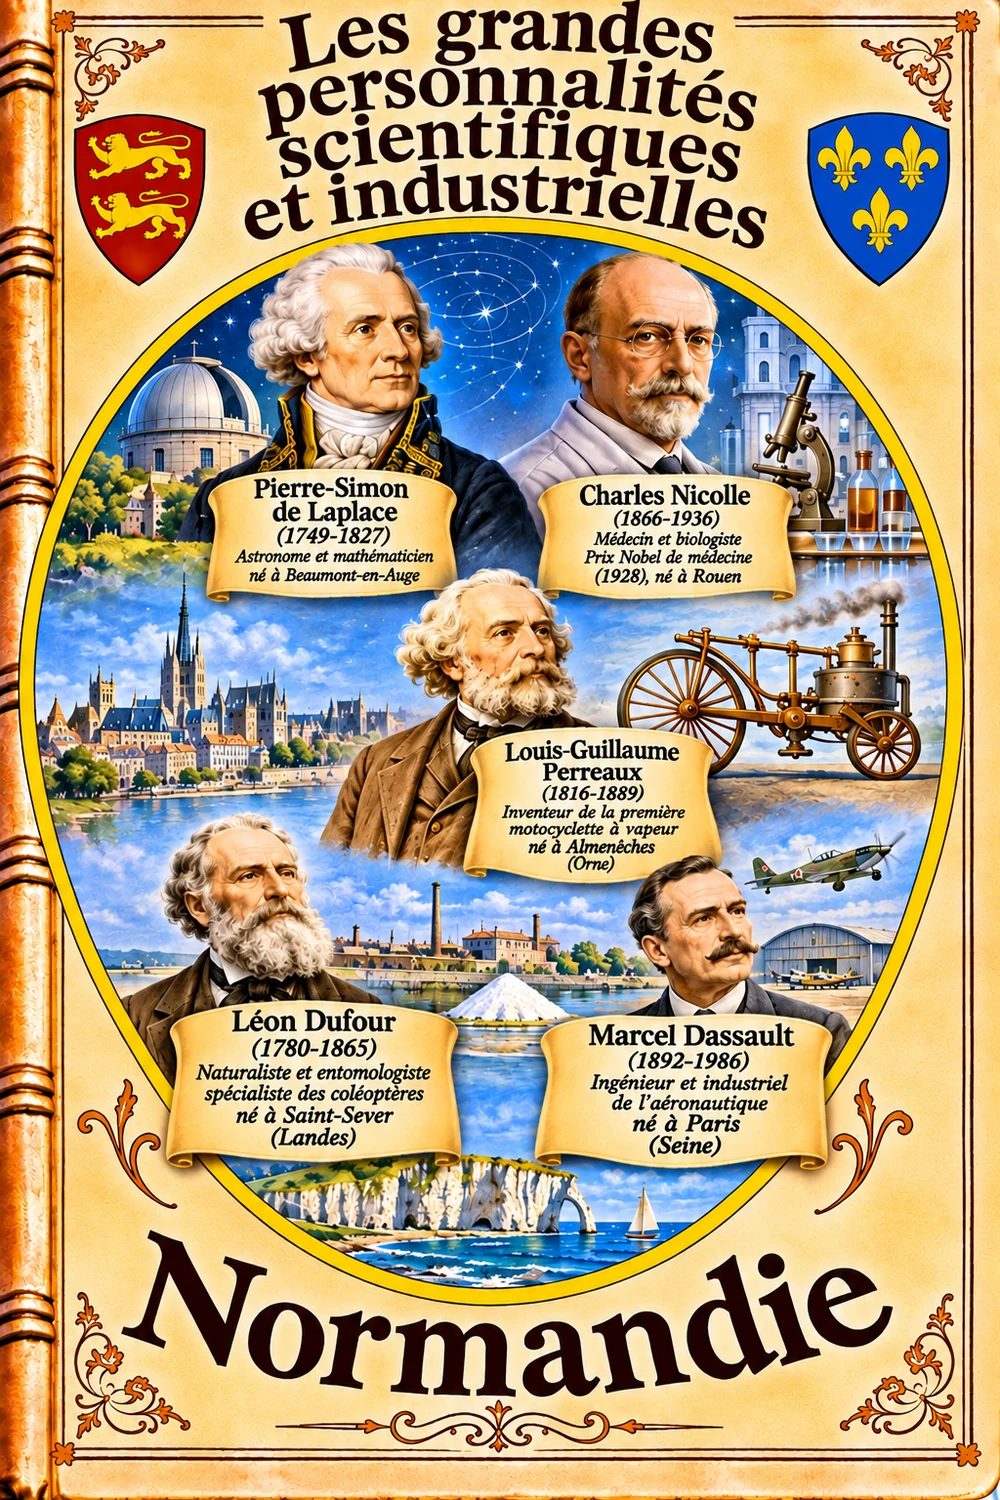
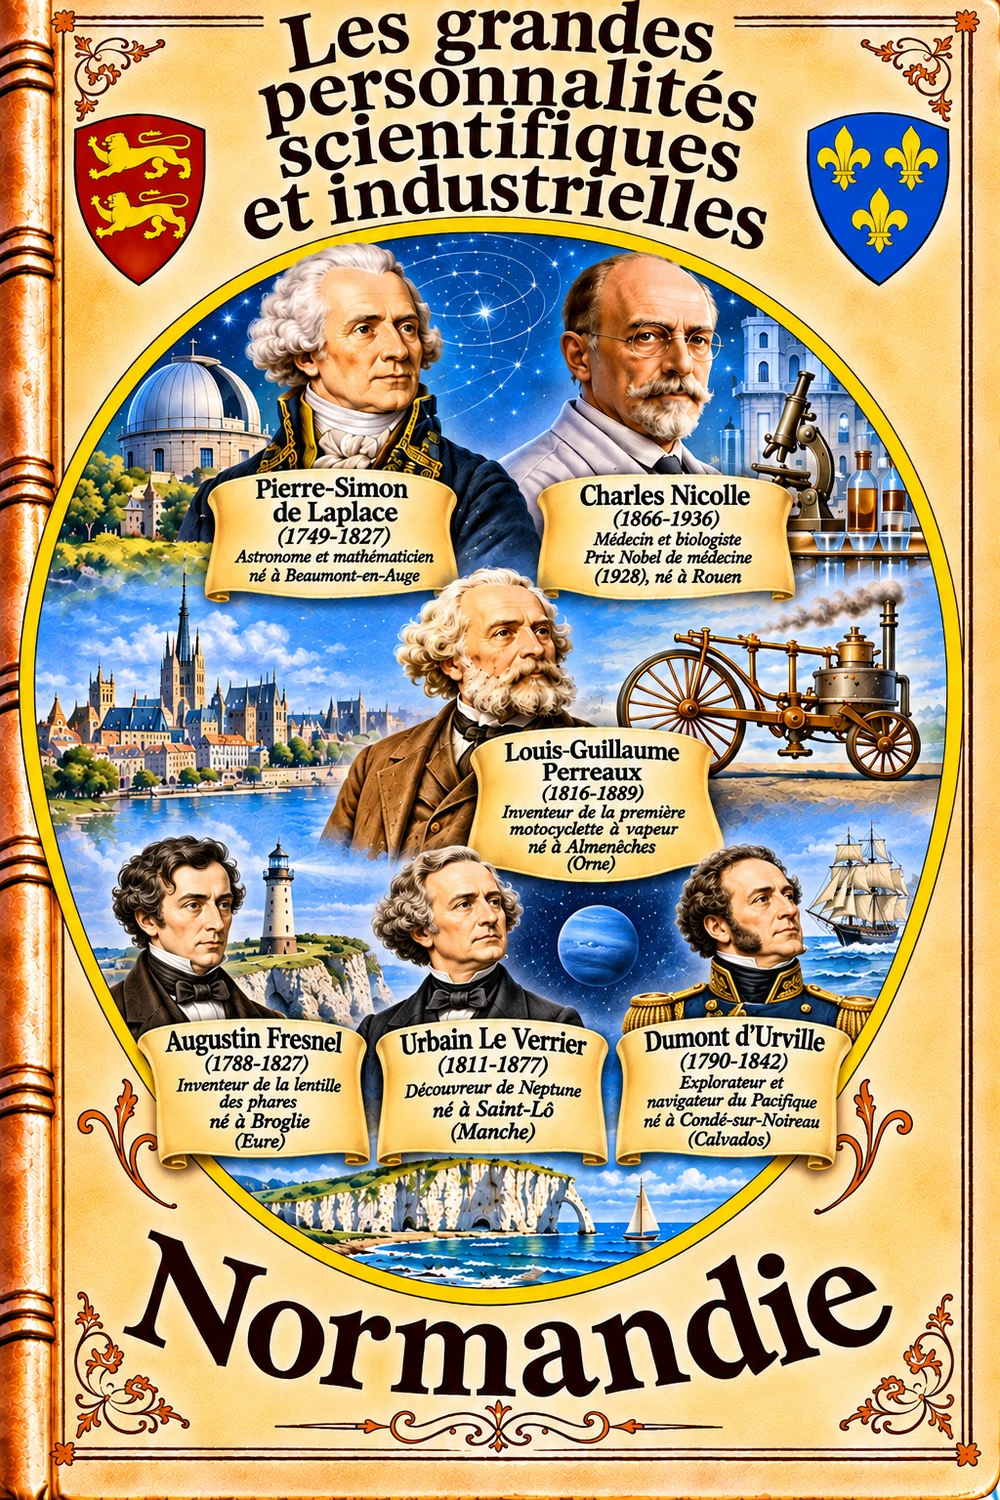
Normandie : couverture des personnalités corrigée
Claude-Session: https://claude.ai/code/session_01HgJSWxnu3UTd7Eo3ecR1Re

diff --git a/france.html b/france.html
@@ -4,7 +4,7 @@
   <meta charset="UTF-8" />
   <meta name="viewport" content="width=device-width, initial-scale=1.0" />
   <title>Carte de France — Bibliothèque des régions</title>
-  <link rel="stylesheet" href="commun/site.css?v=20261118e" />
+  <link rel="stylesheet" href="commun/site.css?v=20261118f" />
   <link rel="preconnect" href="https://fonts.googleapis.com" />
   <link href="https://fonts.googleapis.com/css2?family=Playfair+Display:ital,wght@0,400;0,700;1,400&family=Source+Sans+3:wght@400;500;600&display=swap" rel="stylesheet" />
 </head>
@@ -79,36 +79,36 @@
   <p class="accueil-collection-texte">Les recettes des treize régions de métropole, réunies en deux tomes.</p>
   <div class="accueil-collection-livres">
     <a class="accueil-tome" href="collections/france/recettes-salees-france.html" style="--cuir:#8B1E24">
-      <img src="collections/france/images/recettes-salees-france.webp?v=20261118e" alt="" loading="lazy" />
+      <img src="collections/france/images/recettes-salees-france.webp?v=20261118f" alt="" loading="lazy" />
       <span class="accueil-tome-titre">Recettes salées de France<small>Tome 1 · 386 recettes</small></span>
     </a>
     <a class="accueil-tome" href="collections/france/recettes-sucrees-france.html" style="--cuir:#8B1E24">
-      <img src="collections/france/images/recettes-sucrees-france.webp?v=20261118e" alt="" loading="lazy" />
+      <img src="collections/france/images/recettes-sucrees-france.webp?v=20261118f" alt="" loading="lazy" />
       <span class="accueil-tome-titre">Recettes sucrées de France<small>Tome 2 · 384 recettes</small></span>
     </a>
   </div>
 </section>
 
-<script src="commun/regions.js?v=20261118e"></script>
+<script src="commun/regions.js?v=20261118f"></script>
 <!-- La liste des livres de chaque région (pour compter les livres sur la carte) -->
-<script src="regions/auvergne-rhone-alpes/liste-livres.js?v=20261118e"></script>
-<script src="regions/bourgogne-franche-comte/liste-livres.js?v=20261118e"></script>
-<script src="regions/bretagne/liste-livres.js?v=20261118e"></script>
-<script src="regions/centre-val-de-loire/liste-livres.js?v=20261118e"></script>
-<script src="regions/corse/liste-livres.js?v=20261118e"></script>
-<script src="regions/grand-est/liste-livres.js?v=20261118e"></script>
-<script src="regions/hauts-de-france/liste-livres.js?v=20261118e"></script>
-<script src="regions/ile-de-france/liste-livres.js?v=20261118e"></script>
-<script src="regions/normandie/liste-livres.js?v=20261118e"></script>
-<script src="regions/nouvelle-aquitaine/liste-livres.js?v=20261118e"></script>
-<script src="regions/occitanie/liste-livres.js?v=20261118e"></script>
-<script src="regions/pays-de-la-loire/liste-livres.js?v=20261118e"></script>
-<script src="regions/provence-alpes-cote-d-azur/liste-livres.js?v=20261118e"></script>
-<script src="regions/guadeloupe/liste-livres.js?v=20261118e"></script>
-<script src="regions/martinique/liste-livres.js?v=20261118e"></script>
-<script src="regions/guyane/liste-livres.js?v=20261118e"></script>
-<script src="regions/la-reunion/liste-livres.js?v=20261118e"></script>
-<script src="regions/mayotte/liste-livres.js?v=20261118e"></script>
+<script src="regions/auvergne-rhone-alpes/liste-livres.js?v=20261118f"></script>
+<script src="regions/bourgogne-franche-comte/liste-livres.js?v=20261118f"></script>
+<script src="regions/bretagne/liste-livres.js?v=20261118f"></script>
+<script src="regions/centre-val-de-loire/liste-livres.js?v=20261118f"></script>
+<script src="regions/corse/liste-livres.js?v=20261118f"></script>
+<script src="regions/grand-est/liste-livres.js?v=20261118f"></script>
+<script src="regions/hauts-de-france/liste-livres.js?v=20261118f"></script>
+<script src="regions/ile-de-france/liste-livres.js?v=20261118f"></script>
+<script src="regions/normandie/liste-livres.js?v=20261118f"></script>
+<script src="regions/nouvelle-aquitaine/liste-livres.js?v=20261118f"></script>
+<script src="regions/occitanie/liste-livres.js?v=20261118f"></script>
+<script src="regions/pays-de-la-loire/liste-livres.js?v=20261118f"></script>
+<script src="regions/provence-alpes-cote-d-azur/liste-livres.js?v=20261118f"></script>
+<script src="regions/guadeloupe/liste-livres.js?v=20261118f"></script>
+<script src="regions/martinique/liste-livres.js?v=20261118f"></script>
+<script src="regions/guyane/liste-livres.js?v=20261118f"></script>
+<script src="regions/la-reunion/liste-livres.js?v=20261118f"></script>
+<script src="regions/mayotte/liste-livres.js?v=20261118f"></script>
 <script src="commun/carte.js"></script>
 </body>
 </html>

diff --git a/regions/normandie/personnalites.html b/regions/normandie/personnalites.html
@@ -9,7 +9,7 @@
   <link href="https://fonts.googleapis.com/css2?family=Playfair+Display:ital,wght@0,400;0,700;1,400&family=Source+Sans+3:wght@400;500;600&display=swap" rel="stylesheet" />
 </head>
 <!-- Couverture du livre (image rangée dans images/couvertures/), couleur du cuir et retour à la bibliothèque -->
-<body data-livre-cuir="#E8C080" class="produit-page" data-livre-couverture="images/couvertures/personnalites.webp?v=20261118b" data-livre-retour="bibliotheque.html">
+<body data-livre-cuir="#E8C080" class="produit-page" data-livre-couverture="images/couvertures/personnalites.webp?v=20261118c" data-livre-retour="bibliotheque.html">
 <div class="produit-body"><div class="container"><div class="produit-layout"><div>
 <!-- ═════════ UNE TERRE DE SAVANTS ═════════ -->
 <section class="section" id="presentation"><h2 class="section-titre"><div class="section-titre-icon">📖</div>Une terre de savants</h2><div class="histoire-texte"><p><strong>La Normandie a vu naître de grands savants : un mathématicien qui a expliqué le mouvement des planètes, un physicien qui a inventé la lentille des phares, un astronome qui a découvert une planète par le calcul, un médecin prix Nobel.</strong></p><p>Elle a aussi attiré de grands entrepreneurs : industriels du textile, créateur de la Bénédictine, fondateur de Moulinex, et les usines Renault.</p><p>Ce livre présente leurs vies et leurs découvertes, en expliquant ce qu'elles ont changé.</p><div class="repere-grid"><div class="repere"><strong>1654</strong><span>naissance de Varignon.</span></div><div class="repere"><strong>1846</strong><span>découverte de Neptune.</span></div><div class="repere"><strong>1868</strong><span>vélocipède à vapeur de Perreaux.</span></div><div class="repere"><strong>1928</strong><span>prix Nobel de Nicolle.</span></div></div></div></section>

diff --git a/regions/normandie/liste-livres.js b/regions/normandie/liste-livres.js
@@ -46,7 +46,7 @@ AME.ajouterLivres("normandie", [
   { titre: "La mer et la pêche", sousTitre: "Coquilles Saint-Jacques, terre-neuvas et ports normands", page: "mer-et-peche.html", couverture: "images/couvertures/mer-et-peche.webp?v=20261118", couleur: "#E8C080" },
   { titre: "Le patrimoine architectural", sousTitre: "Colombages, châteaux et cathédrales", page: "patrimoine-architectural.html", couverture: "images/couvertures/patrimoine-architectural.webp?v=20261118", couleur: "#E8C080" },
   { titre: "Paysages et nature", sousTitre: "Falaises, bocage, marais et parcs naturels", page: "paysages-nature.html", couverture: "images/couvertures/paysages-nature.webp?v=20261118", couleur: "#E8C080" },
-  { titre: "Savants, inventeurs et industriels", sousTitre: "De Laplace à Moulinex", page: "personnalites.html", couverture: "images/couvertures/personnalites.webp?v=20261118b", couleur: "#E8C080" },
+  { titre: "Savants, inventeurs et industriels", sousTitre: "De Laplace à Moulinex", page: "personnalites.html", couverture: "images/couvertures/personnalites.webp?v=20261118c", couleur: "#E8C080" },
   /* Modèle à recopier :
   { titre: "Titre du livre",
     sousTitre: "sous-titre (facultatif)",

diff --git a/regions/provence-alpes-cote-d-azur/bibliotheque.html b/regions/provence-alpes-cote-d-azur/bibliotheque.html
@@ -4,7 +4,7 @@
   <meta charset="UTF-8" />
   <meta name="viewport" content="width=device-width, initial-scale=1.0" />
   <title>Bibliothèque — Provence-Alpes-Côte d&#x27;Azur</title>
-  <link rel="stylesheet" href="../../commun/site.css?v=20261118e" />
+  <link rel="stylesheet" href="../../commun/site.css?v=20261118f" />
   <link rel="preconnect" href="https://fonts.googleapis.com" />
   <link href="https://fonts.googleapis.com/css2?family=Playfair+Display:ital,wght@0,400;0,700;1,400&family=Source+Sans+3:wght@400;500;600&display=swap" rel="stylesheet" />
 </head>
@@ -28,8 +28,8 @@
   <div class="biblio-meuble"></div>
 </main>
 
-<script src="../../commun/regions.js?v=20261118e"></script>
-<script src="liste-livres.js?v=20261118e"></script>
-<script src="../../commun/bibliotheque.js?v=20261118e"></script>
+<script src="../../commun/regions.js?v=20261118f"></script>
+<script src="liste-livres.js?v=20261118f"></script>
+<script src="../../commun/bibliotheque.js?v=20261118f"></script>
 </body>
 </html>

diff --git a/regions/bourgogne-franche-comte/bibliotheque.html b/regions/bourgogne-franche-comte/bibliotheque.html
@@ -4,7 +4,7 @@
   <meta charset="UTF-8" />
   <meta name="viewport" content="width=device-width, initial-scale=1.0" />
   <title>Bibliothèque — Bourgogne-Franche-Comté</title>
-  <link rel="stylesheet" href="../../commun/site.css?v=20261118e" />
+  <link rel="stylesheet" href="../../commun/site.css?v=20261118f" />
   <link rel="preconnect" href="https://fonts.googleapis.com" />
   <link href="https://fonts.googleapis.com/css2?family=Playfair+Display:ital,wght@0,400;0,700;1,400&family=Source+Sans+3:wght@400;500;600&display=swap" rel="stylesheet" />
 </head>
@@ -28,8 +28,8 @@
   <div class="biblio-meuble"></div>
 </main>
 
-<script src="../../commun/regions.js?v=20261118e"></script>
-<script src="liste-livres.js?v=20261118e"></script>
-<script src="../../commun/bibliotheque.js?v=20261118e"></script>
+<script src="../../commun/regions.js?v=20261118f"></script>
+<script src="liste-livres.js?v=20261118f"></script>
+<script src="../../commun/bibliotheque.js?v=20261118f"></script>
 </body>
 </html>

diff --git a/regions/auvergne-rhone-alpes/bibliotheque.html b/regions/auvergne-rhone-alpes/bibliotheque.html
@@ -4,7 +4,7 @@
   <meta charset="UTF-8" />
   <meta name="viewport" content="width=device-width, initial-scale=1.0" />
   <title>Bibliothèque — Auvergne-Rhône-Alpes</title>
-  <link rel="stylesheet" href="../../commun/site.css?v=20261118e" />
+  <link rel="stylesheet" href="../../commun/site.css?v=20261118f" />
   <link rel="preconnect" href="https://fonts.googleapis.com" />
   <link href="https://fonts.googleapis.com/css2?family=Playfair+Display:ital,wght@0,400;0,700;1,400&family=Source+Sans+3:wght@400;500;600&display=swap" rel="stylesheet" />
 </head>
@@ -28,8 +28,8 @@
   <div class="biblio-meuble"></div>
 </main>
 
-<script src="../../commun/regions.js?v=20261118e"></script>
-<script src="liste-livres.js?v=20261118e"></script>
-<script src="../../commun/bibliotheque.js?v=20261118e"></script>
+<script src="../../commun/regions.js?v=20261118f"></script>
+<script src="liste-livres.js?v=20261118f"></script>
+<script src="../../commun/bibliotheque.js?v=20261118f"></script>
 </body>
 </html>

diff --git a/regions/centre-val-de-loire/bibliotheque.html b/regions/centre-val-de-loire/bibliotheque.html
@@ -4,7 +4,7 @@
   <meta charset="UTF-8" />
   <meta name="viewport" content="width=device-width, initial-scale=1.0" />
   <title>Bibliothèque — Centre-Val de Loire</title>
-  <link rel="stylesheet" href="../../commun/site.css?v=20261118e" />
+  <link rel="stylesheet" href="../../commun/site.css?v=20261118f" />
   <link rel="preconnect" href="https://fonts.googleapis.com" />
   <link href="https://fonts.googleapis.com/css2?family=Playfair+Display:ital,wght@0,400;0,700;1,400&family=Source+Sans+3:wght@400;500;600&display=swap" rel="stylesheet" />
 </head>
@@ -28,8 +28,8 @@
   <div class="biblio-meuble"></div>
 </main>
 
-<script src="../../commun/regions.js?v=20261118e"></script>
-<script src="liste-livres.js?v=20261118e"></script>
-<script src="../../commun/bibliotheque.js?v=20261118e"></script>
+<script src="../../commun/regions.js?v=20261118f"></script>
+<script src="liste-livres.js?v=20261118f"></script>
+<script src="../../commun/bibliotheque.js?v=20261118f"></script>
 </body>
 </html>

diff --git a/regions/nouvelle-aquitaine/bibliotheque.html b/regions/nouvelle-aquitaine/bibliotheque.html
@@ -4,7 +4,7 @@
   <meta charset="UTF-8" />
   <meta name="viewport" content="width=device-width, initial-scale=1.0" />
   <title>Bibliothèque — Nouvelle-Aquitaine</title>
-  <link rel="stylesheet" href="../../commun/site.css?v=20261118e" />
+  <link rel="stylesheet" href="../../commun/site.css?v=20261118f" />
   <link rel="preconnect" href="https://fonts.googleapis.com" />
   <link href="https://fonts.googleapis.com/css2?family=Playfair+Display:ital,wght@0,400;0,700;1,400&family=Source+Sans+3:wght@400;500;600&display=swap" rel="stylesheet" />
 </head>
@@ -28,8 +28,8 @@
   <div class="biblio-meuble"></div>
 </main>
 
-<script src="../../commun/regions.js?v=20261118e"></script>
-<script src="liste-livres.js?v=20261118e"></script>
-<script src="../../commun/bibliotheque.js?v=20261118e"></script>
+<script src="../../commun/regions.js?v=20261118f"></script>
+<script src="liste-livres.js?v=20261118f"></script>
+<script src="../../commun/bibliotheque.js?v=20261118f"></script>
 </body>
 </html>

diff --git a/regions/pays-de-la-loire/bibliotheque.html b/regions/pays-de-la-loire/bibliotheque.html
@@ -4,7 +4,7 @@
   <meta charset="UTF-8" />
   <meta name="viewport" content="width=device-width, initial-scale=1.0" />
   <title>Bibliothèque — Pays de la Loire</title>
-  <link rel="stylesheet" href="../../commun/site.css?v=20261118e" />
+  <link rel="stylesheet" href="../../commun/site.css?v=20261118f" />
   <link rel="preconnect" href="https://fonts.googleapis.com" />
   <link href="https://fonts.googleapis.com/css2?family=Playfair+Display:ital,wght@0,400;0,700;1,400&family=Source+Sans+3:wght@400;500;600&display=swap" rel="stylesheet" />
 </head>
@@ -28,8 +28,8 @@
   <div class="biblio-meuble"></div>
 </main>
 
-<script src="../../commun/regions.js?v=20261118e"></script>
-<script src="liste-livres.js?v=20261118e"></script>
-<script src="../../commun/bibliotheque.js?v=20261118e"></script>
+<script src="../../commun/regions.js?v=20261118f"></script>
+<script src="liste-livres.js?v=20261118f"></script>
+<script src="../../commun/bibliotheque.js?v=20261118f"></script>
 </body>
 </html>

diff --git a/regions/hauts-de-france/bibliotheque.html b/regions/hauts-de-france/bibliotheque.html
@@ -4,7 +4,7 @@
   <meta charset="UTF-8" />
   <meta name="viewport" content="width=device-width, initial-scale=1.0" />
   <title>Bibliothèque — Hauts-de-France</title>
-  <link rel="stylesheet" href="../../commun/site.css?v=20261118e" />
+  <link rel="stylesheet" href="../../commun/site.css?v=20261118f" />
   <link rel="preconnect" href="https://fonts.googleapis.com" />
   <link href="https://fonts.googleapis.com/css2?family=Playfair+Display:ital,wght@0,400;0,700;1,400&family=Source+Sans+3:wght@400;500;600&display=swap" rel="stylesheet" />
 </head>
@@ -28,8 +28,8 @@
   <div class="biblio-meuble"></div>
 </main>
 
-<script src="../../commun/regions.js?v=20261118e"></script>
-<script src="liste-livres.js?v=20261118e"></script>
-<script src="../../commun/bibliotheque.js?v=20261118e"></script>
+<script src="../../commun/regions.js?v=20261118f"></script>
+<script src="liste-livres.js?v=20261118f"></script>
+<script src="../../commun/bibliotheque.js?v=20261118f"></script>
 </body>
 </html>

diff --git a/regions/ile-de-france/bibliotheque.html b/regions/ile-de-france/bibliotheque.html
@@ -4,7 +4,7 @@
   <meta charset="UTF-8" />
   <meta name="viewport" content="width=device-width, initial-scale=1.0" />
   <title>Bibliothèque — Île-de-France</title>
-  <link rel="stylesheet" href="../../commun/site.css?v=20261118e" />
+  <link rel="stylesheet" href="../../commun/site.css?v=20261118f" />
   <link rel="preconnect" href="https://fonts.googleapis.com" />
   <link href="https://fonts.googleapis.com/css2?family=Playfair+Display:ital,wght@0,400;0,700;1,400&family=Source+Sans+3:wght@400;500;600&display=swap" rel="stylesheet" />
 </head>
@@ -28,8 +28,8 @@
   <div class="biblio-meuble"></div>
 </main>
 
-<script src="../../commun/regions.js?v=20261118e"></script>
-<script src="liste-livres.js?v=20261118e"></script>
-<script src="../../commun/bibliotheque.js?v=20261118e"></script>
+<script src="../../commun/regions.js?v=20261118f"></script>
+<script src="liste-livres.js?v=20261118f"></script>
+<script src="../../commun/bibliotheque.js?v=20261118f"></script>
 </body>
 </html>

diff --git a/regions/la-reunion/bibliotheque.html b/regions/la-reunion/bibliotheque.html
@@ -4,7 +4,7 @@
   <meta charset="UTF-8" />
   <meta name="viewport" content="width=device-width, initial-scale=1.0" />
   <title>Bibliothèque — La Réunion</title>
-  <link rel="stylesheet" href="../../commun/site.css?v=20261118e" />
+  <link rel="stylesheet" href="../../commun/site.css?v=20261118f" />
   <link rel="preconnect" href="https://fonts.googleapis.com" />
   <link href="https://fonts.googleapis.com/css2?family=Playfair+Display:ital,wght@0,400;0,700;1,400&family=Source+Sans+3:wght@400;500;600&display=swap" rel="stylesheet" />
 </head>
@@ -28,8 +28,8 @@
   <div class="biblio-meuble"></div>
 </main>
 
-<script src="../../commun/regions.js?v=20261118e"></script>
-<script src="liste-livres.js?v=20261118e"></script>
-<script src="../../commun/bibliotheque.js?v=20261118e"></script>
+<script src="../../commun/regions.js?v=20261118f"></script>
+<script src="liste-livres.js?v=20261118f"></script>
+<script src="../../commun/bibliotheque.js?v=20261118f"></script>
 </body>
 </html>
